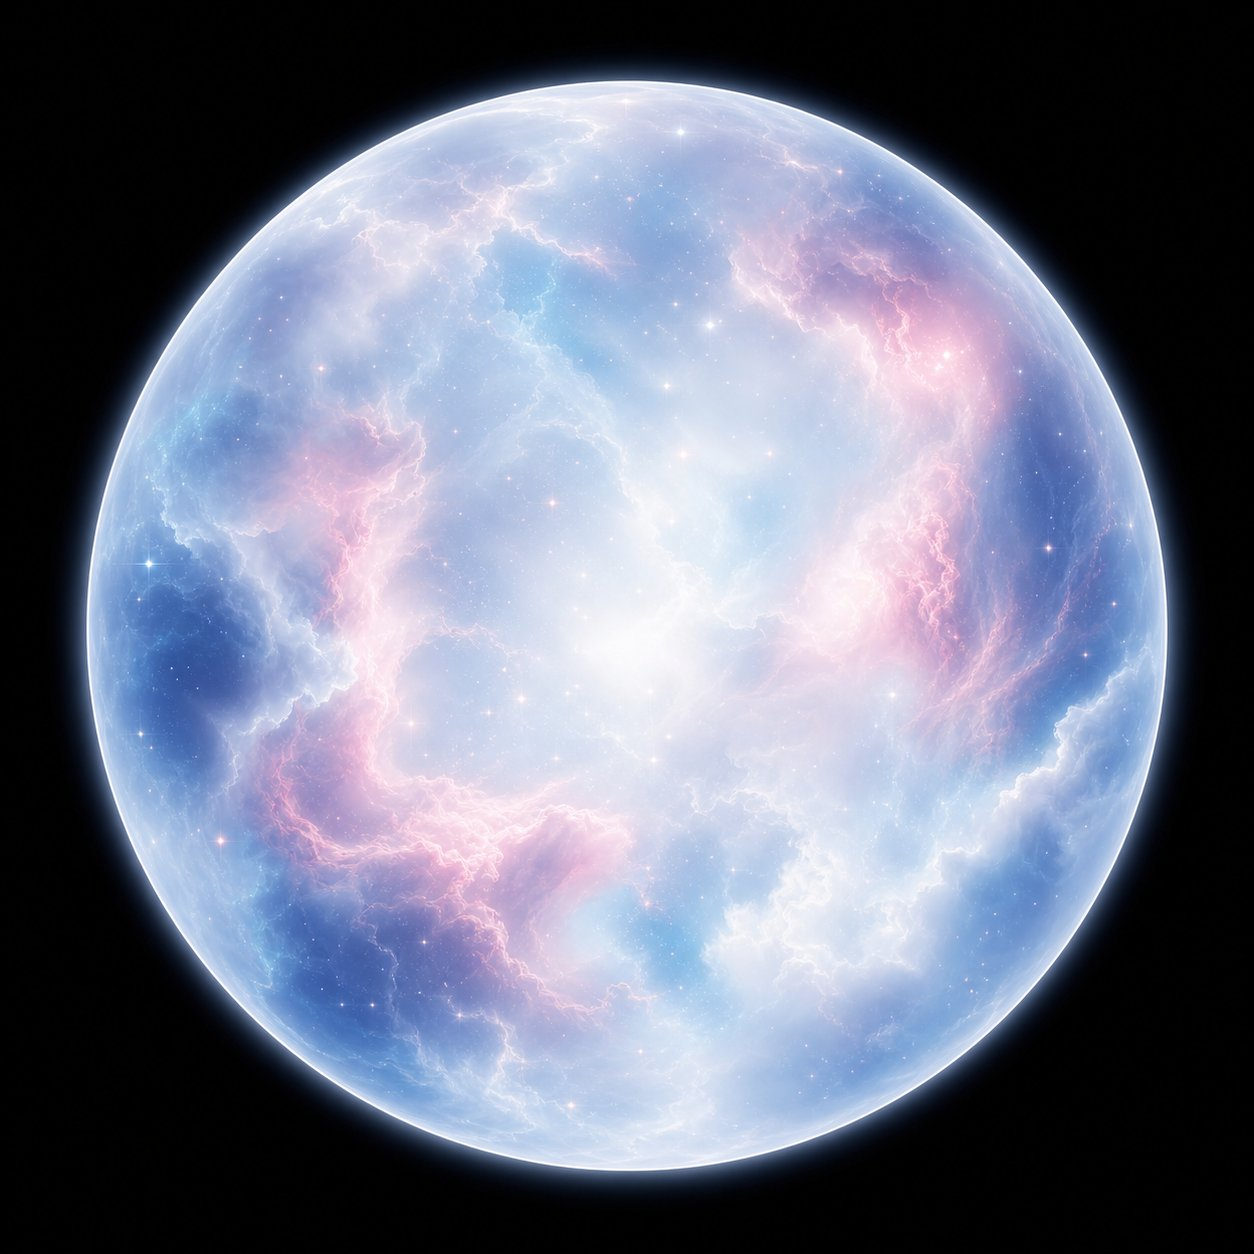
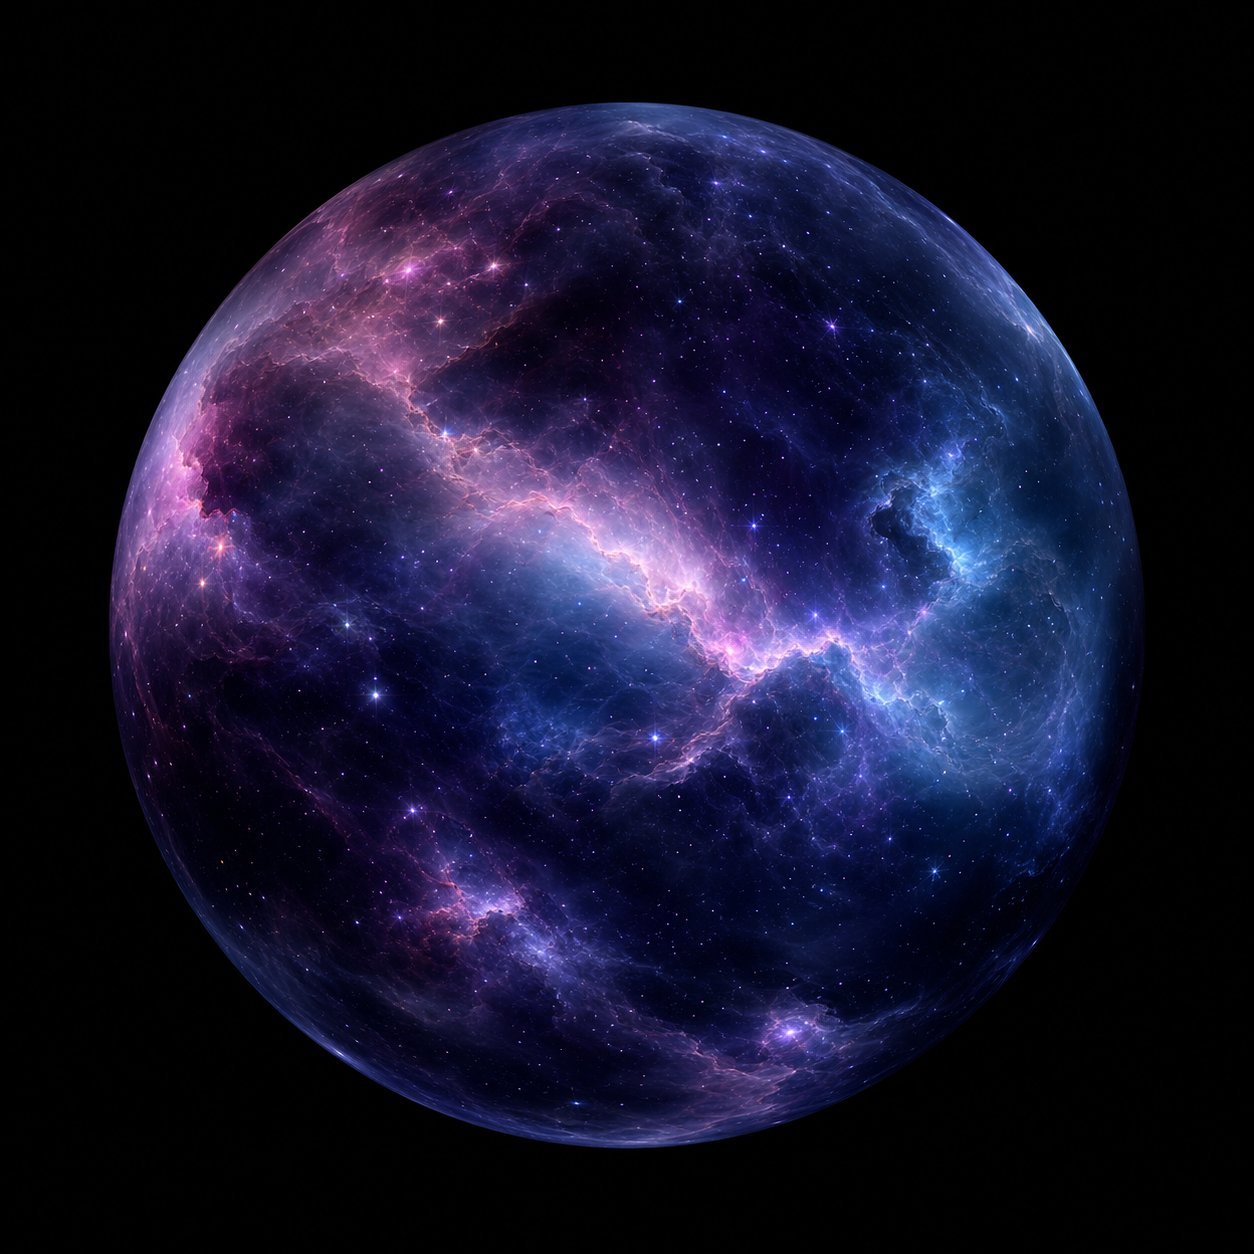
Register Raleway fonts in binary data; commit redesigned artwork and 50-preset API header
- juce_add_binary_data(VoidChamberAssets) now lists Assets/fonts/*.ttf,
  matching the Raleway symbols VoidGUI.h references (Raleway200_ttf ...
  Raleway700_ttf). Without this the generated BinaryData contained only the
  six JPEGs and the plugin build failed on both platforms with missing
  BinaryData members.
- void-background, space-plate and space-ambient: regenerated nebula artwork.
- PluginProcessor.h: the 50-preset/5-category factory API (numPresets,
  presetsPerCategory, category names, prev/next) that PluginProcessor.cpp
  and the editor already use; it was never committed.

diff --git a/Source/PluginProcessor.h b/Source/PluginProcessor.h
@@ -51,12 +51,25 @@ public:
     float getInputLevel() const noexcept { return inputLevel.load(std::memory_order_relaxed); }
     float getOutputLevel() const noexcept { return outputLevel.load(std::memory_order_relaxed); }
 
-    // Factory presets (also exposed as host programs)
-    static constexpr int numPresets = 6;
+    // --- Factory presets ---------------------------------------------------------
+    // 50 presets in 5 categories x 10, ordered the same as the space-type orbs:
+    // Void (0-9), Hall (10-19), Plate (20-29), Cavern (30-39), Ambient (40-49).
+    static constexpr int numPresets = 50;
+    static constexpr int presetsPerCategory = 10;
+    static constexpr int numCategories = 5;
+
     int getNumPresets() const noexcept { return numPresets; }
     int getCurrentPresetIndex() const noexcept { return currentPresetIndex.load(std::memory_order_relaxed); }
     juce::String getCurrentPresetName() const;
+    juce::String getCurrentCategoryName() const;
+
+    static juce::String getPresetCategoryName(int categoryIndex);
+    static juce::String getPresetName(int index);
+    static int getPresetCategoryIndex(int index) noexcept { return juce::jlimit(0, numCategories - 1, index / presetsPerCategory); }
+
     void loadPreset(int index);
+    void loadPreviousPreset();
+    void loadNextPreset();
 
     // Parameter IDs
     static constexpr char sizeID[]        = "size";
